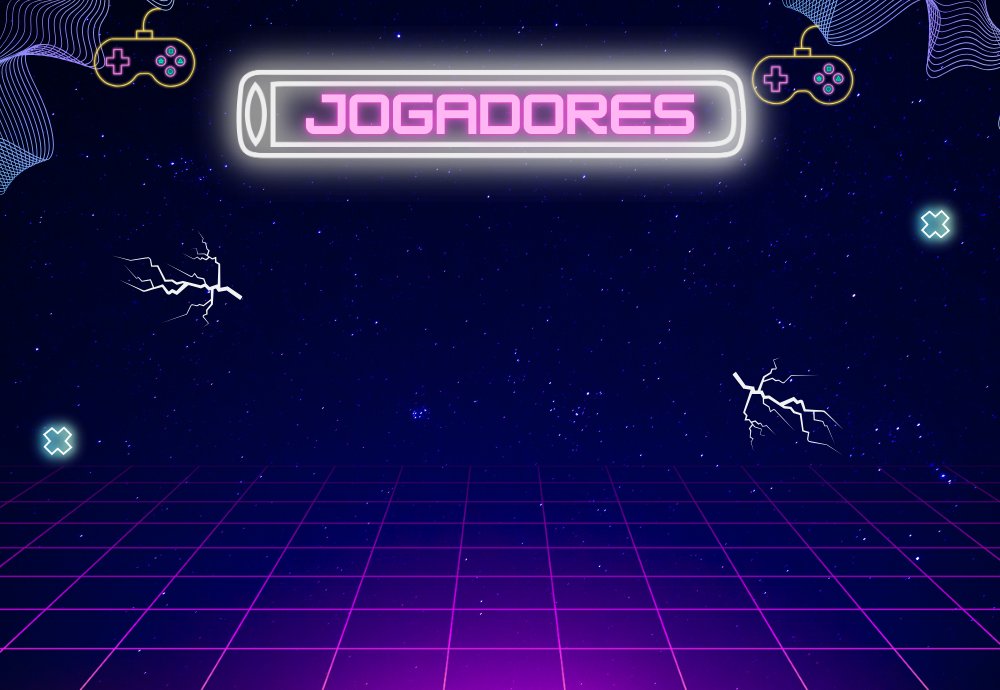
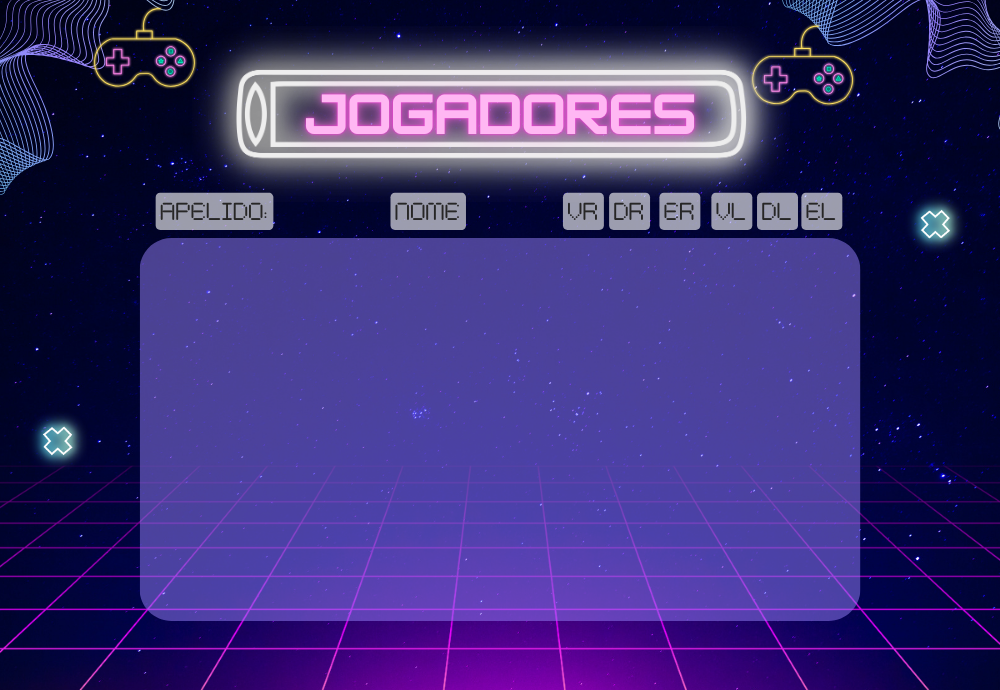
agora as estatistica estão projetando na tela

diff --git a/jogo/src/Historico.cpp b/jogo/src/Historico.cpp
@@ -23,7 +23,7 @@ Historico::Historico(){
         for (int i = 0; i < cabecalho.size(); i++) {
             arquivo << cabecalho[i];
             if (i < cabecalho.size() - 1) {
-                arquivo << ";"; 
+                arquivo << "; "; 
             }
         }
         arquivo << std::endl; 
@@ -95,7 +95,7 @@ void Historico::Editar(std:: string apelido, std:: string coluna, std:: string n
             std::string apelidoLido;
             getline(ss, apelidoLido, ';');
             if(apelidoLido==apelido){
-                arquivoTemp << apelidoLido << ";"; //Copio o apelido pro arquivo temp
+                arquivoTemp << apelidoLido << "; "; //Copio o apelido pro arquivo temp
 
                 //Leio o restante dos dados do jogador, tirando o apelido (i=1)
                 for (int i = 1; i < cabecalho.size(); ++i){
@@ -107,7 +107,7 @@ void Historico::Editar(std:: string apelido, std:: string coluna, std:: string n
 
                     arquivoTemp << dado;
                     if (i < cabecalho.size() - 1) {
-                        arquivoTemp << ";"; 
+                        arquivoTemp << "; "; 
                     }
                 }
                 arquivoTemp << std::endl;
@@ -137,7 +137,7 @@ void Historico::criarLinha(const std::vector<std::string>& dados) {
         for (int i = 0; i < dados.size(); ++i) {
             arquivo << dados[i];
             if (i < dados.size() - 1) {
-                arquivo << ";"; // Adiciona ponto e vírgula entre os campos
+                arquivo << "; "; // Adiciona ponto e vírgula entre os campos
             }
         }
         arquivo << std::endl; // Nova linha após a última entrada
@@ -230,5 +230,6 @@ void Historico::addEstatistica(std:: string apelido, std:: string coluna){
         Editar(apelido, coluna, estatistica);
     }
 }
-        
-       
+std::string Historico::getNomeArquivo() const {
+    return nomeArquivo;
+}

diff --git a/jogo/src/Telas.cpp b/jogo/src/Telas.cpp
@@ -86,6 +86,40 @@ TelaLista::TelaLista(sf::RenderWindow& window, sf::Font& fonte) : window(window)
         botaoVoltar.criarBotoes();
     }
 
+std::vector<std::string> TelaLista::carregarDadosJogadores() {
+    std::vector<std::string> jogadores;
+    std::ifstream arquivo(historico.getNomeArquivo());
+    std::string linha;
+
+    if (arquivo.is_open()) {
+        // Ignorar o cabeçalho
+        std::getline(arquivo, linha);
+        
+        while (std::getline(arquivo, linha)) {
+            jogadores.push_back(linha);
+        }
+        arquivo.close();
+    } else {
+        std::cerr << "Erro ao abrir o arquivo de dados." << std::endl;
+    }
+    return jogadores; // Retorne a lista de jogadores
+}
+void TelaLista::desenharJogadores() {
+    sf::Text texto;
+    texto.setFont(fonte);
+    texto.setCharacterSize(15);
+    texto.setFillColor(sf::Color::Black);
+
+    float yOffset = 250.f;
+
+    for (const std::string& jogador : carregarDadosJogadores()) {
+        texto.setString(jogador);
+        texto.setPosition(180.f, yOffset);
+        window.draw(texto);
+        yOffset += 30.f;
+    }
+}
+
 void TelaLista::desenharLista() {
     try {
         Wallpaper wallpaper("menuListaJogadores.png");
@@ -94,6 +128,7 @@ void TelaLista::desenharLista() {
     } catch (const std::runtime_error& e) {
         std::cerr << "Erro ao carregar o wallpaper do menu: " << e.what() << std::endl;
     }
+    desenharJogadores();
     botaoVoltar.desenhar(window);
 }
 

diff --git a/jogo/src/Jogador.cpp b/jogo/src/Jogador.cpp
@@ -139,7 +139,7 @@ void Jogador :: setResultado(std::string _nome_do_jogo, int _vitorias, int _derr
 
 //Eu queria fazer essas próximas duas funções com sobrecarga de operadores, mas não sei se ficaria bom:
 
-void Jogador :: setResultado(std::string _nome_do_jogo, std::string ganhador, std::string perdedor, bool empatou){
+void Jogador::setResultado(std::string _nome_do_jogo, std::string ganhador, std::string perdedor, bool empatou){
     try {
         if(empatou){
             historico.addEstatistica(ganhador, "Empates " + _nome_do_jogo);

diff --git a/jogo/include/Telas.hpp b/jogo/include/Telas.hpp
@@ -7,6 +7,7 @@
 #include "../include/CampoTexto.hpp"
 #include "../include/Wallpaper.hpp"
 #include "../include/Interacao.hpp"
+#include "../include/Historico.hpp"
 
 class TelaMenu {
     private:
@@ -54,8 +55,12 @@ class TelaLista {
 
     public:
         Botao botaoVoltar;
+        Historico historico;
+        std::vector<std::string> jogadores;
 
         TelaLista(sf::RenderWindow& window, sf::Font& fonte);
+        std::vector<std::string> carregarDadosJogadores();
+        void desenharJogadores();
         void desenharLista();
 };
 

diff --git a/jogo/src/jogo_principal.cpp b/jogo/src/jogo_principal.cpp
@@ -399,6 +399,7 @@ int main() {
             } else if (estadoAtual == "Cadastro") { //se o condicional da regiao do botao mudar o estadoAtual
                 telaCadastro.desenharJogo();  //pra Cadastro entao chama a função desenharCadastro e assim por diante
             } else if (estadoAtual == "ListaDeJogadores") {
+                
                 telaLista.desenharLista();
             } else if (estadoAtual == "ExcluirConta") {
                 telaExcluir.desenharExcluirConta();

diff --git a/jogo/src/JogoLig4.cpp b/jogo/src/JogoLig4.cpp
@@ -13,8 +13,6 @@ JogoLig4::JogoLig4(sf::RenderWindow& window, sf::Font& fonte, sf::Event& evento)
     circulo.setFillColor(sf::Color(255, 100, 250));
 }
 
-
-
 void JogoLig4::desenharJogo() {
 
     Wallpaper wallpaper("wallpaper_lig4.png");

diff --git a/jogo/include/Historico.hpp b/jogo/include/Historico.hpp
@@ -24,6 +24,7 @@ class Historico{
         //Pensando se não devemos chamar de imprimirDados; 
         
         void addEstatistica(std:: string apelido, std:: string coluna);
+        std::string getNomeArquivo() const;
        
 
 }; 
